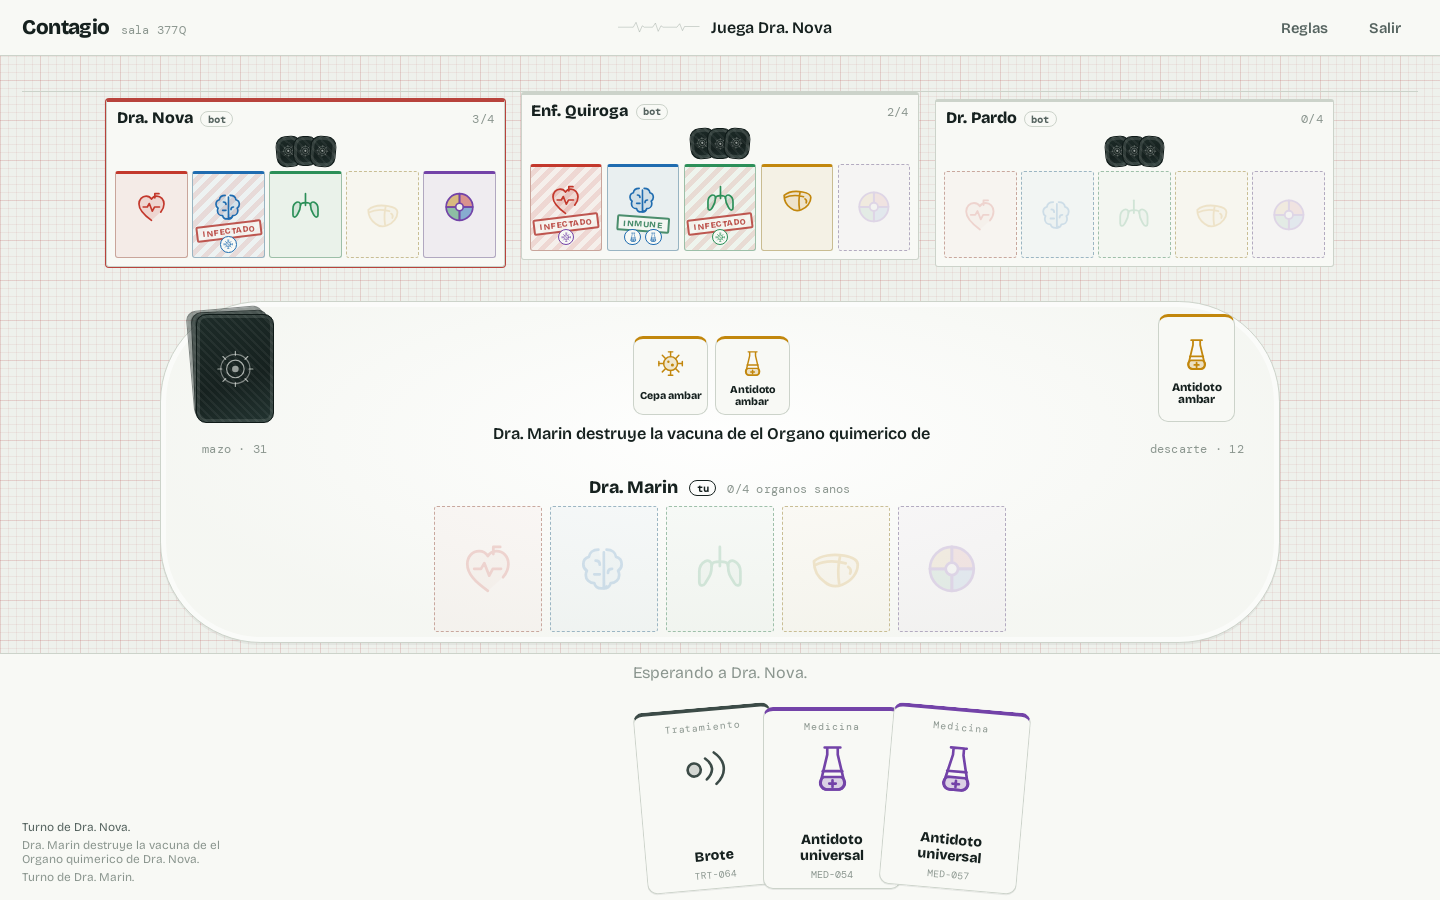
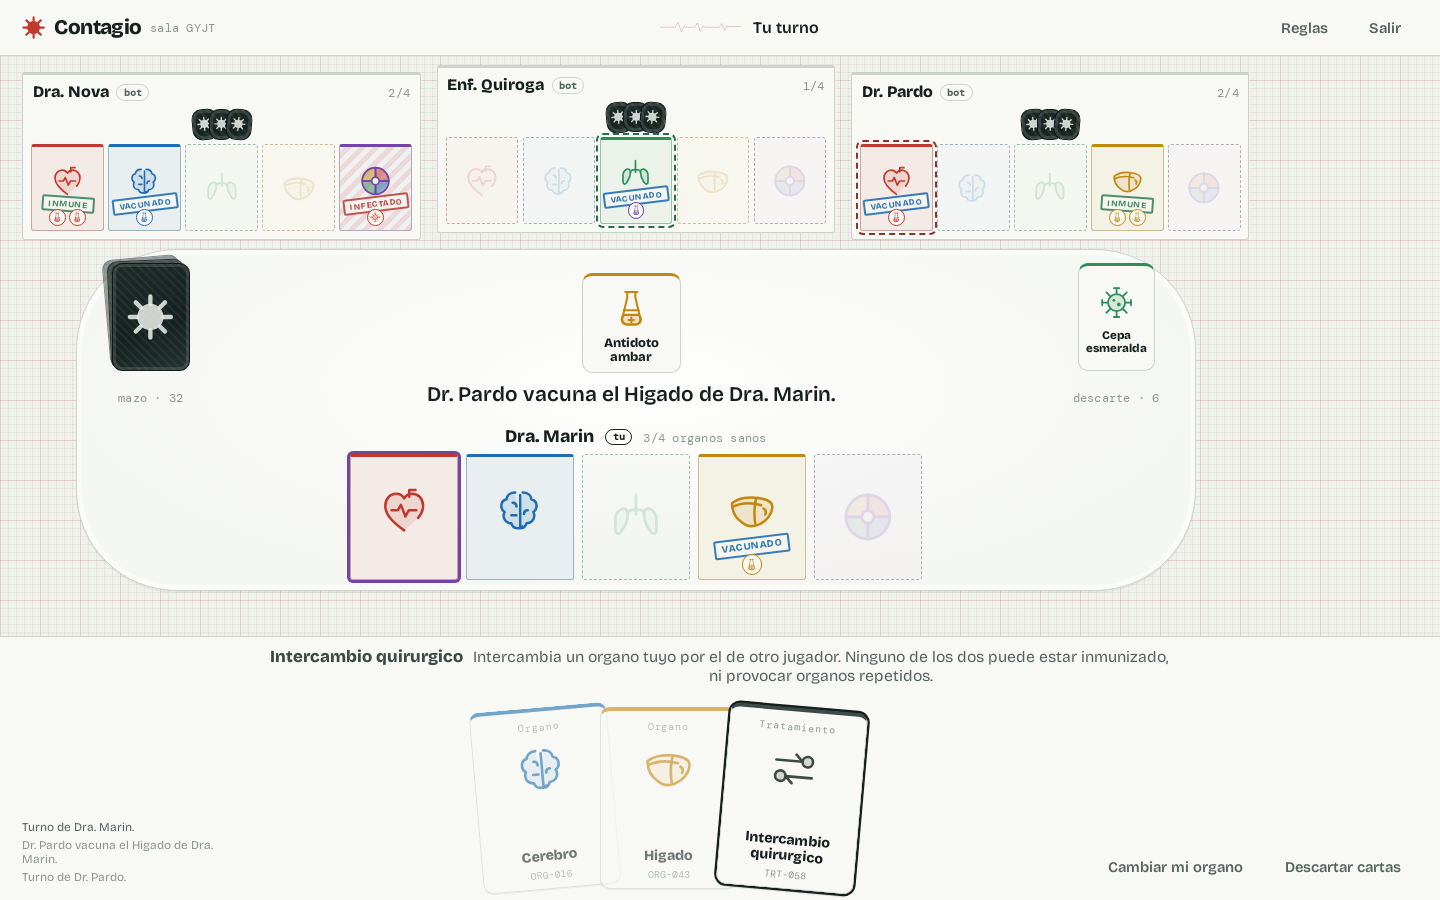
docs: recoger la mesa con rivales a los lados

diff --git a/README.md b/README.md
@@ -26,10 +26,13 @@ El mazo son 68 cartas: 21 órganos, 17 virus, 20 medicinas y 10 tratamientos.
 
 Una partida se juega sola si nadie la lee. Tres decisiones hacen que los turnos ajenos se entiendan:
 
-- **Los bots se toman su tiempo** (3 s por turno, ajustable con `BOT_DELAY_MS`). No es tiempo de cálculo: es tiempo de
-  lectura.
-- **Cada jugada se anuncia en el centro** con la carta que se ha jugado y una frase — "Dr. Pardo roba el Hígado de
-  Enf. Quiroga" — y el órgano afectado parpadea un instante.
+- **Los bots se toman su tiempo** (4,5 s por turno, ajustable con `BOT_DELAY_MS`). No es tiempo de cálculo: es tiempo
+  de lectura.
+- **Cada jugada se anuncia en el centro**, en grande, con la carta que se ha jugado y una frase — "Dr. Pardo roba el
+  Hígado de Enf. Quiroga" — y el órgano afectado parpadea un instante.
+- **Cada cuerpo tiene cinco huecos fijos**, uno por color más el comodín, así que colocar una carta no mueve la mesa
+  y se ve de un vistazo a quién le falta qué. Con cuatro rivales o más, los costados de la mesa se ocupan en lugar de
+  estrechar la fila de arriba.
 - **El reparto se ve**: las cartas se barajan en el centro, salen una a una hacia cada jugador y el mazo se retira
   después a su sitio. Se puede saltar, y se omite si el sistema pide movimiento reducido.
 
